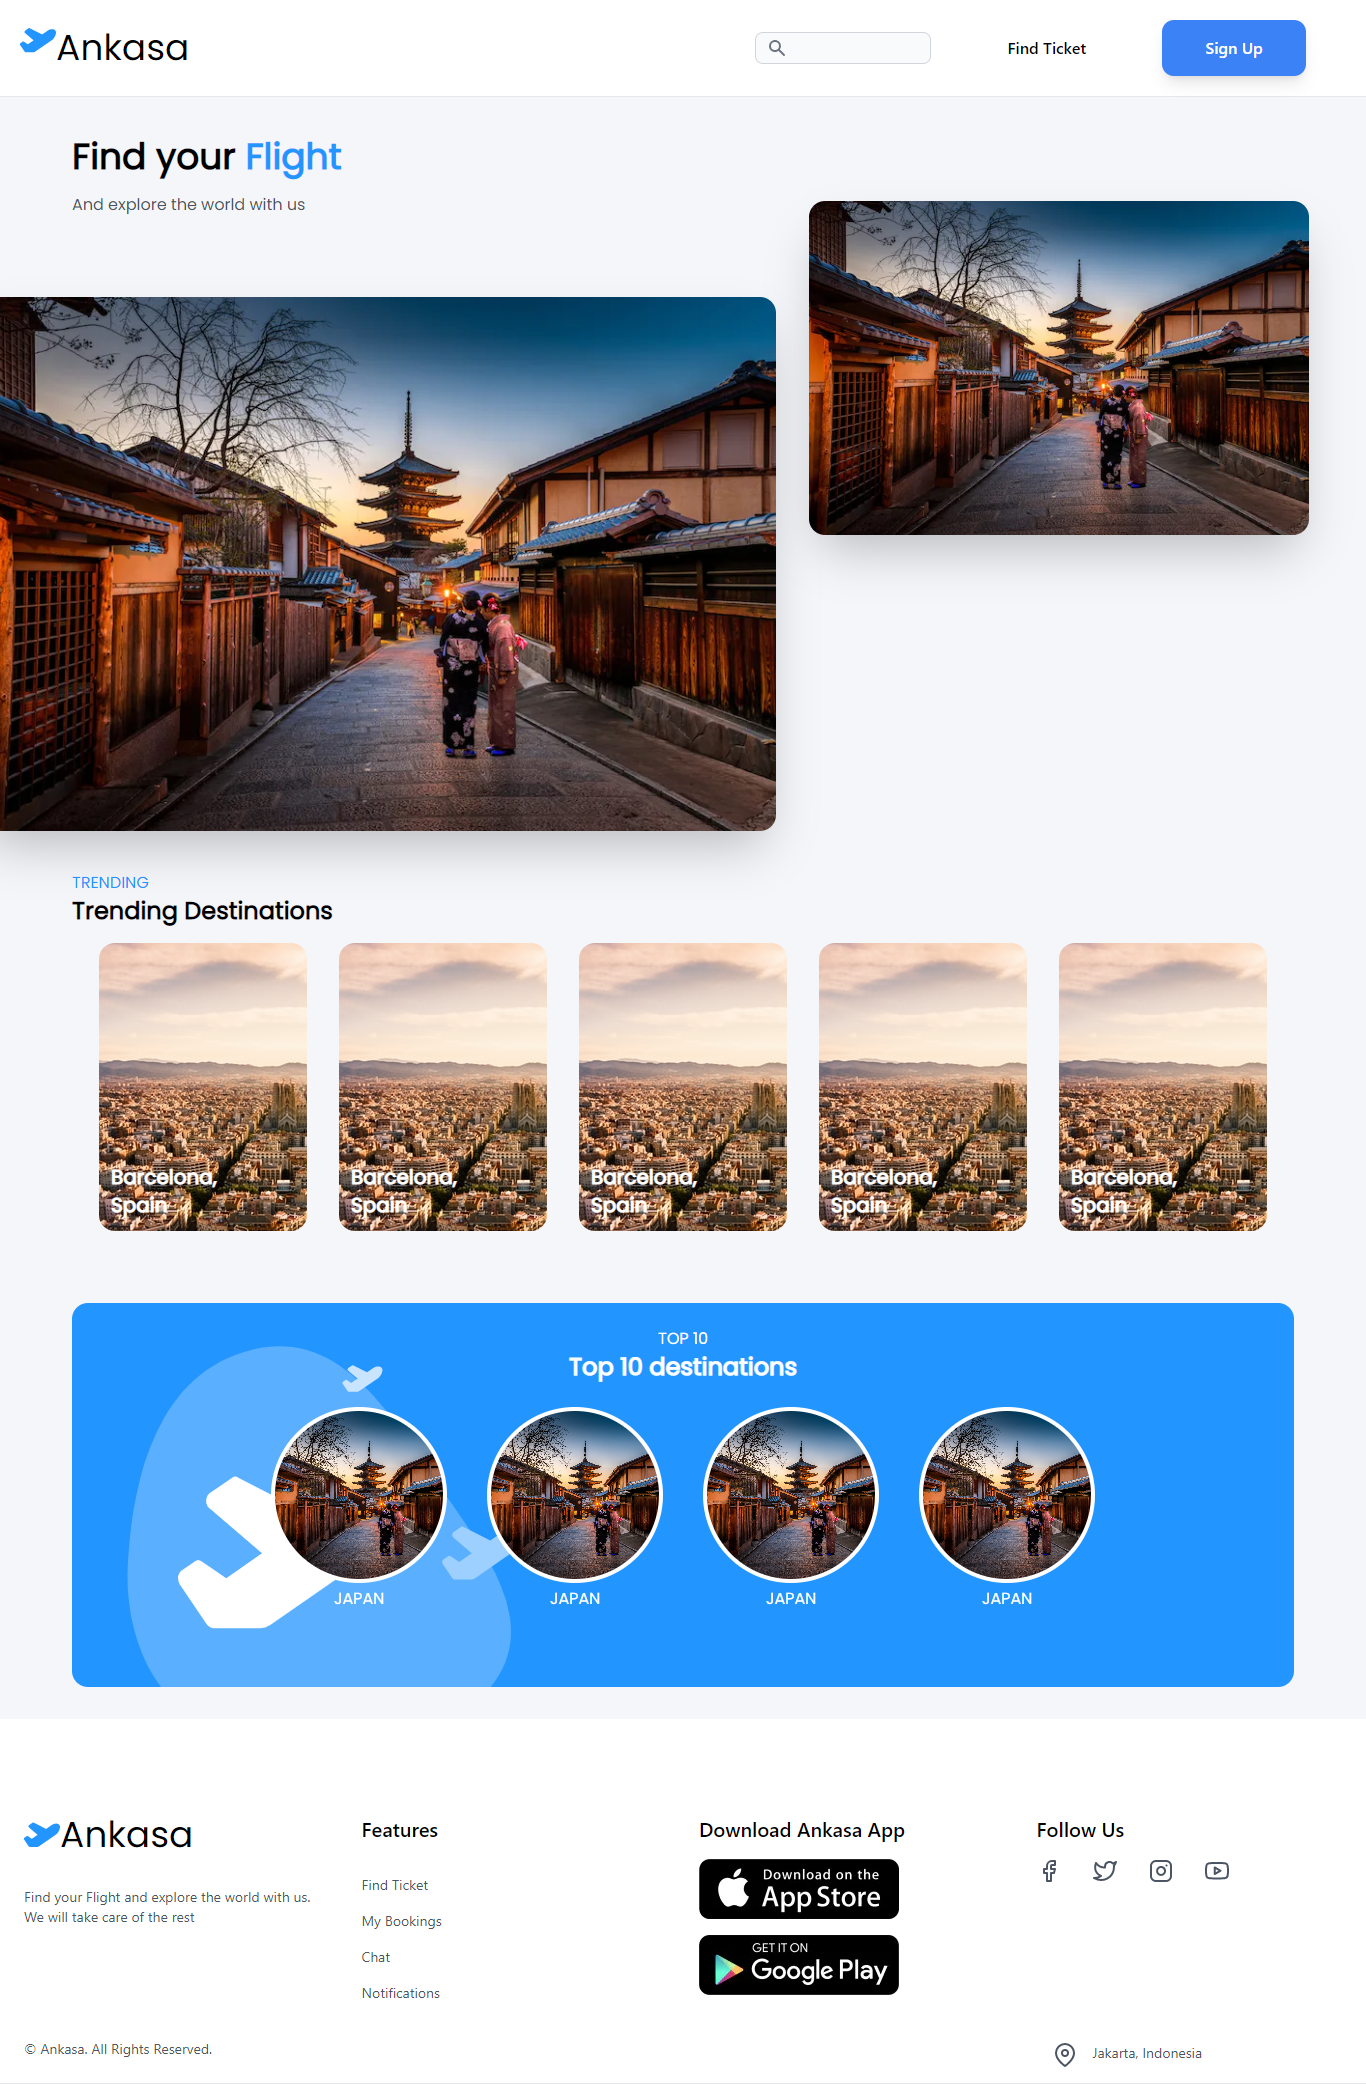
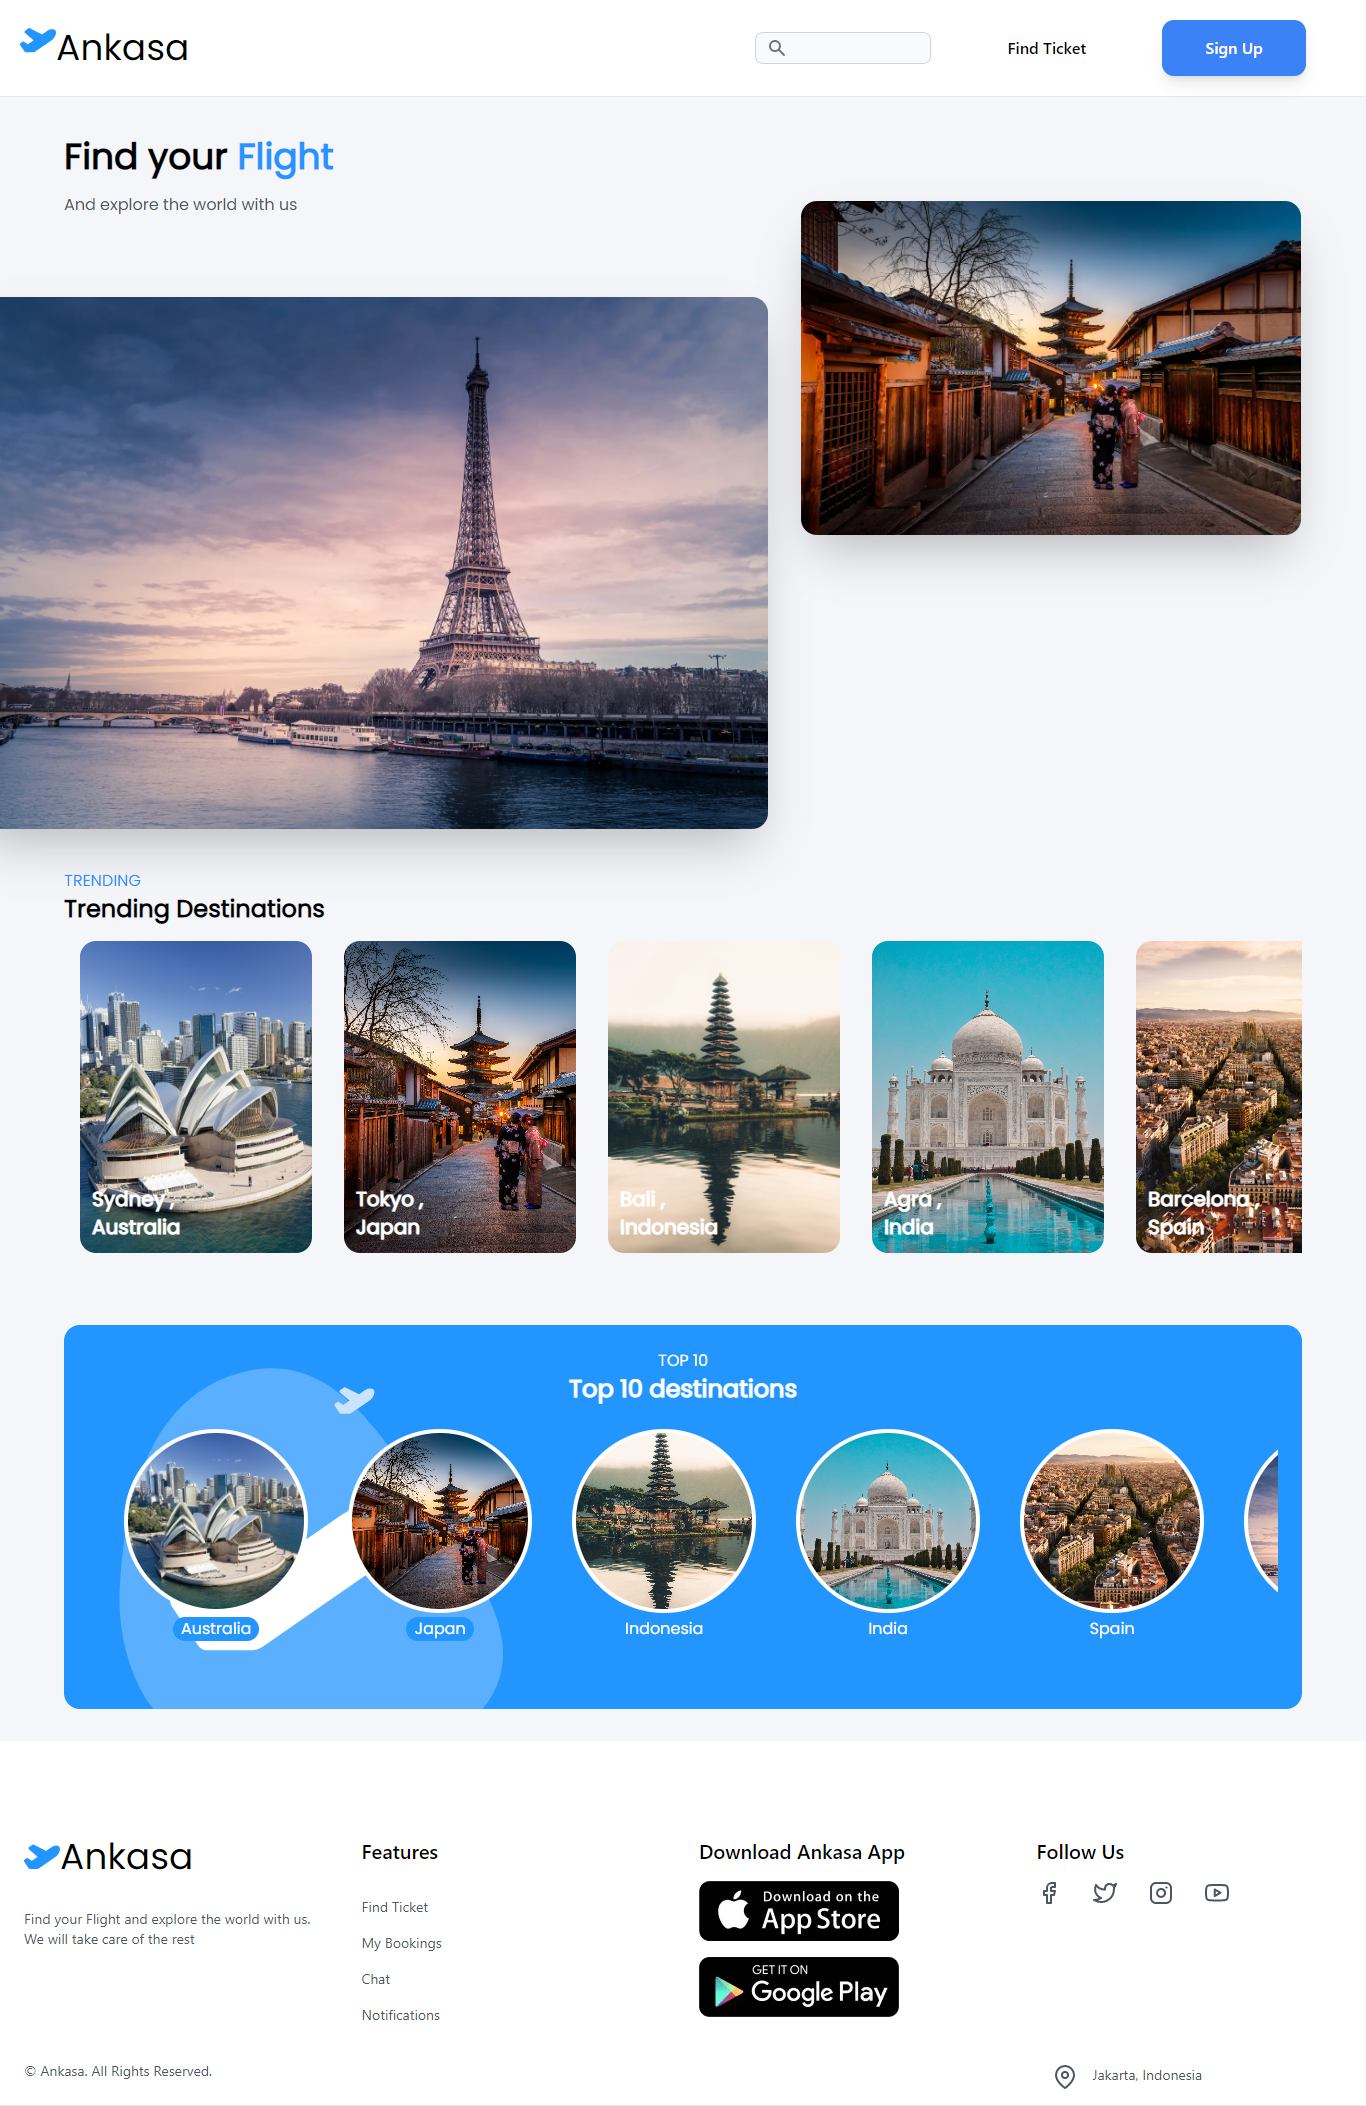
updated landing page, tickets page.

diff --git a/src/components/landing/trending.js b/src/components/landing/trending.js
@@ -1,72 +1,71 @@
 import Image from "next/image";
-import bar from "../../../public/barcelona.jpg";
-import jpn from "../../../public/japan.jpg";
 import planes from "../../../public/illustration.svg";
-export const Trending = () => {
+import { useRouter } from "next/router";
+const destination = [
+  {
+    id: "1",
+    city: "Sydney",
+    country: "Australia",
+    photo:
+      "https://res.cloudinary.com/dedas1ohg/image/upload/v1684725781/ankasa_images/tderreqpmavpwq051dtg_qqls92.jpg",
+  },
+  {
+    id: "2",
+    city: "Tokyo",
+    country: "Japan",
+    photo:
+      "https://res.cloudinary.com/dedas1ohg/image/upload/v1684725776/ankasa_images/3097cdde4bed0635ba416301c724bea9_tzzhxu.jpg",
+  },
+  {
+    id: "3",
+    city: "Bali",
+    country: "Indonesia",
+    photo:
+      "https://res.cloudinary.com/dedas1ohg/image/upload/v1684725775/ankasa_images/bali.9f38db1394055a296d5e_sqjcej.jpg",
+  },
+  {
+    id: "4",
+    city: "Agra",
+    country: "India",
+    photo:
+      "https://res.cloudinary.com/dedas1ohg/image/upload/v1684725775/ankasa_images/agra.1ab2252c6460aec02cb7_aofvd6.jpg",
+  },
+  {
+    id: "5",
+    city: "Barcelona",
+    country: "Spain",
+    photo:
+      "https://res.cloudinary.com/dedas1ohg/image/upload/v1684725774/ankasa_images/153e1610c5b2dc54dbd24db8a2251fc8_mt8iem.jpg",
+  },
+  {
+    id: "6",
+    city: "Paris",
+    country: "France",
+    photo:
+      "https://res.cloudinary.com/dedas1ohg/image/upload/v1684727212/ankasa_images/f01e0ab7c33981f586273a726b9e138f_r2iud8.jpg",
+  },
+];
+export const Trending = (props) => {
   return (
     <div className="md:px-16 px-4 my-6">
       <p className="md:block text-md hidden text-ankasa-blue">TRENDING</p>
       <p className="text-2xl text-black md:font-bold">Trending Destinations</p>
-      <div
-        className="h-72 w-52 rounded-2xl flex-col justify-end p-3 text-xl font-bold text-white md:hidden flex"
-        style={{
-          backgroundImage: `url(${bar.src})`,
-        }}
-      >
-        <p>Barcelona,</p>
-        <p>Spain</p>
-      </div>
-      <div className="text-black my-4 hidden md:flex justify-center">
-        {/* 1 */}
-        <div
-          className="h-72 w-52 rounded-2xl mx-4 flex-col flex justify-end p-3 text-xl font-bold text-white"
-          style={{
-            backgroundImage: `url(${bar.src})`,
-          }}
-        >
-          <p>Barcelona,</p>
-          <p>Spain</p>
-        </div>
-        {/* 2 */}
-        <div
-          className="h-72 w-52 rounded-2xl mx-4 flex-col flex justify-end p-3 text-xl font-bold text-white"
-          style={{
-            backgroundImage: `url(${bar.src})`,
-          }}
-        >
-          <p>Barcelona,</p>
-          <p>Spain</p>
-        </div>
-        {/* 3 */}
-        <div
-          className="h-72 w-52 rounded-2xl mx-4 flex-col flex justify-end p-3 text-xl font-bold text-white"
-          style={{
-            backgroundImage: `url(${bar.src})`,
-          }}
-        >
-          <p>Barcelona,</p>
-          <p>Spain</p>
-        </div>
-        {/* 4 */}
-        <div
-          className="h-72 w-52 rounded-2xl mx-4 flex-col flex justify-end p-3 text-xl font-bold text-white"
-          style={{
-            backgroundImage: `url(${bar.src})`,
-          }}
-        >
-          <p>Barcelona,</p>
-          <p>Spain</p>
-        </div>
-        {/* 5 */}
-        <div
-          className="h-72 w-52 rounded-2xl mx-4 flex-col flex justify-end p-3 text-xl font-bold text-white"
-          style={{
-            backgroundImage: `url(${bar.src})`,
-          }}
-        >
-          <p>Barcelona,</p>
-          <p>Spain</p>
-        </div>
+      {/* carousel */}
+      <div className="text-black my-4 carousel carousel-center">
+        {destination.map((item, index) => (
+          <div
+            key={item.id}
+            className="h-72 w-52 rounded-2xl mx-4 flex-col flex justify-end p-3 text-xl font-bold text-white carousel-item"
+            style={{
+              backgroundImage: `url(${item.photo})`,
+              backgroundPosition: `center`,
+              backgroundSize: `cover`,
+            }}
+          >
+            <p>{item.city} ,</p>
+            <p>{item.country}</p>
+          </div>
+        ))}
       </div>
     </div>
   );
@@ -75,92 +74,39 @@ export const Trending = () => {
 export const Popular = () => {
   return (
     <div className="md:px-16 px-4 my-4">
-      <div className="md:hidden block">
-        <p className="md:block text-md hidden text-ankasa-blue md:text-center">
-          TOP 10
-        </p>
-        <p className="text-2xl text-black md:font-bold md:text-center">
-          Top 10 destinations
-        </p>
-      </div>
       <div
-        className="h-72 w-52 rounded-2xl flex-col justify-end p-3 text-xl font-bold text-white md:hidden flex"
-        style={{
-          backgroundImage: `url(${jpn.src})`,
-          backgroundPosition: `center`,
-          backgroundSize: `cover`,
-        }}
-      >
-        <p>Tokyo,</p>
-        <p>Japan</p>
-      </div>
-      <div
-        className="text-white hidden md:flex my-4 md:w-full md:h-96 md:bg-ankasa-blue md:rounded-2xl p-6"
+        className="text-white my-4 w-full h-96 bg-ankasa-blue rounded-2xl p-6"
         style={{
           backgroundImage: `url(${planes.src})`,
           backgroundRepeat: `no-repeat`,
         }}
       >
-        <div className="w-full">
+        <div className="w-full ">
           <div className="flex-col h-auto ">
             <p className="md:block text-md hidden md:text-center">TOP 10</p>
             <p className="text-2xl  md:font-bold md:text-center">
               Top 10 destinations
             </p>
           </div>
-          <div className="md:flex h-5/6 mt-2 p-4 justify-center hidden">
+          <div className="md:flex h-60 mt-2 p-4 carousel carousel-center ">
             {/* ball 1 */}
-            <div
-              className="rounded-full w-44 h-44 bg-ankasa-blue border-4 border-white mx-5 flex flex-col justify-end"
-              style={{
-                backgroundImage: `url(${jpn.src})`,
-                backgroundPosition: `center`,
-                backgroundSize: `cover`,
-              }}
-            >
-              <div className="-mb-8 flex justify-center w-full ">
-                <p>JAPAN</p>
+            {destination.map((item, index) => (
+              <div
+                key={item.id}
+                className="rounded-full w-44 h-44 bg-ankasa-blue border-4 border-white mx-5 flex flex-col justify-end carousel-item"
+                style={{
+                  backgroundImage: `url(${item.photo})`,
+                  backgroundPosition: `center`,
+                  backgroundSize: `cover`,
+                }}
+              >
+                <div className="-mb-8 flex justify-center w-full ">
+                  <p className="bg-ankasa-blue rounded-2xl px-2">
+                    {item.country}
+                  </p>
+                </div>
               </div>
-            </div>
-            {/* ball 2 */}
-            <div
-              className="rounded-full w-44 h-44 bg-ankasa-blue border-4 border-white mx-5 flex flex-col justify-end"
-              style={{
-                backgroundImage: `url(${jpn.src})`,
-                backgroundPosition: `center`,
-                backgroundSize: `cover`,
-              }}
-            >
-              <div className="-mb-8 flex justify-center w-full ">
-                <p>JAPAN</p>
-              </div>
-            </div>
-            {/* ball 3 */}
-            <div
-              className="rounded-full w-44 h-44 bg-ankasa-blue border-4 border-white mx-5 flex flex-col justify-end"
-              style={{
-                backgroundImage: `url(${jpn.src})`,
-                backgroundPosition: `center`,
-                backgroundSize: `cover`,
-              }}
-            >
-              <div className="-mb-8 flex justify-center w-full ">
-                <p>JAPAN</p>
-              </div>
-            </div>
-            {/* ball 4 */}
-            <div
-              className="rounded-full w-44 h-44 bg-ankasa-blue border-4 border-white mx-5 flex flex-col justify-end"
-              style={{
-                backgroundImage: `url(${jpn.src})`,
-                backgroundPosition: `center`,
-                backgroundSize: `cover`,
-              }}
-            >
-              <div className="-mb-8 flex justify-center w-full ">
-                <p>JAPAN</p>
-              </div>
-            </div>
+            ))}
           </div>
         </div>
       </div>
@@ -169,15 +115,26 @@ export const Popular = () => {
 };
 
 export const Explore = () => {
+  const router = useRouter();
+
   return (
-    <div className="hidden xl:block md:px-16 px-4 my-4">
-      <div className="w-11/12 bg-transparent flex justify-between absolute">
+    <div className="block md:px-16 px-4 my-4">
+      <div className="md:w-11/12 bg-transparent md:flex justify-between md:absolute">
         <div>
           <p className="text-4xl font-extrabold text-black ">
             Find your <span className="text-ankasa-blue">Flight</span>
           </p>
           <p className="text-gray-600 my-4">And explore the world with us</p>
         </div>
+        <input
+          type="text"
+          id="search-navbar"
+          className="md:hidden block w-72 p-2 pl-10 text-sm text-gray-900 border border-gray-300 rounded-lg bg-gray-50 focus:ring-blue-500 focus:border-blue-500 self-center"
+          placeholder="Where do you want to go ... ?"
+          onClick={() => {
+            router.push("/ticket");
+          }}
+        />
         <Image
           src={"/japan.jpg"}
           width={500}
@@ -187,11 +144,13 @@ export const Explore = () => {
         />
       </div>
       <Image
-        src={"/japan.jpg"}
+        src={
+          "https://res.cloudinary.com/dedas1ohg/image/upload/v1684727212/ankasa_images/f01e0ab7c33981f586273a726b9e138f_r2iud8.jpg"
+        }
         width={800}
         height={400}
         alt="japan"
-        className="rounded-2xl -ml-24 mt-40 shadow-2xl"
+        className="rounded-2xl -ml-24 mt-40 shadow-2xl hidden xl:block"
       />
     </div>
   );

diff --git a/src/pages/ticket/index.js b/src/pages/ticket/index.js
@@ -17,6 +17,7 @@ import { Slider } from "@mui/material";
 import axios from "axios";
 import { useRouter } from "next/router";
 import formatDate from "../../../lib/formatDate";
+import planes from "../../../public/illustration.svg";
 
 const poppins = Poppins({ weight: "400", subsets: ["latin"] });
 const url = process.env.NEXT_PUBLIC_API_URL;
@@ -177,14 +178,16 @@ export default function Ticket({ formattedData, error }) {
       </Head>
       <main className={` ${poppins.className} bg-ankasa-grey text-black`}>
         {/* top */}
-        <div className="h-44 w-full bg-ankasa-blue rounded-b-2xl px-6 flex flex-row items-center justify-between">
+        <div
+          className="h-44 w-full bg-ankasa-blue rounded-b-2xl flex flex-row items-center justify-between"
+          style={{
+            backgroundImage: `url(${planes.src})`,
+            backgroundRepeat: `no-repeat`,
+            backgroundSize:'50%',
+            backgroundPosition:'center'
+          }}
+        >
           <div className="flex items-center">
-            <Image
-              width={176}
-              height={176}
-              src={"/illustration.svg"}
-              alt="logo"
-            />
             <div className="w-72  p-2 flex-col ml-16">
               <p className="text-white font-bold text-xl">Filters: </p>
               <div className="flex justify-between mt-2">
@@ -625,24 +628,21 @@ export default function Ticket({ formattedData, error }) {
                         </p>
                       </div>
                     </div>
-                    <div>
+                    <div className="hidden md:block">
                       <p>{item.diffs}</p>
                       <p>{item.transit}</p>
                     </div>
-                    <div className="flex w-40  justify-evenly">
+                    <div className="w-40  justify-evenly hidden md:block">
                       {validateFacilities(item.facilities)}
-                      {/* <MdLuggage size={24} />
-                      <MdFastfood size={24} />
-                      <MdWifi size={24} /> */}
                     </div>
-                    <div className="flex">
+                    <div className="hidden md:block">
                       <p className="font-bold text-ankasa-blue mr-2">
                         $ {item.price}
                       </p>
                       <span> /pax</span>
                     </div>
                     <button
-                      className="rounded-xl bg-ankasa-blue text-white text-md font-bold p-3 my-4 self-end w-32 shadow-lg"
+                      className="rounded-xl bg-ankasa-blue text-white text-md font-bold p-3 my-4 self-end md:w-32 w-18 shadow-lg"
                       onClick={() => {
                         router.push(`/ticket/${item.id}`);
                       }}

diff --git a/src/pages/ticket/[id].js b/src/pages/ticket/[id].js
@@ -361,9 +361,9 @@ export default function Ticket({ formattedData, error }) {
               </Alert>
             )}
 
-            <div className="w-full flex justify-between px-2 items-center">
-              <p className="text-lg font-bold text-white">Flight Details</p>
-              <p className="text-sm font-bold text-white">View Details</p>
+            <div className="w-full flex justify-between px-2 items-center font-bold text-black md:text-white">
+              <p className="text-lg">Flight Details</p>
+              <p className="text-sm">View Details</p>
             </div>
             {/* ticket1 */}
             <div className="w-full h-auto rounded-xl bg-white mt-2 mr-1 px-3 py-4 flex flex-col">

diff --git a/src/pages/index.js b/src/pages/index.js
@@ -13,12 +13,6 @@ export default function Landing() {
       <main
         className={`flex-col flex min-h-screen pt-6 ${poppins.className} bg-ankasa-grey`}
       >
-
-        <input type="text"
-          id="search-navbar"
-          className="md:hidden block w-72 p-2 pl-10 text-sm text-gray-900 border border-gray-300 rounded-lg bg-gray-50 focus:ring-blue-500 focus:border-blue-500 self-center"
-          placeholder="Where do you want to go ... ?"
-        />
         <Explore/>
         <Trending/>
         <Popular/>

diff --git a/tailwind.config.js b/tailwind.config.js
@@ -18,5 +18,8 @@ module.exports = {
       },
     },
   },
-  plugins: [],
+  plugins: [require("daisyui")],
+  daisyui: {
+    themes: false,
+ },
 }
